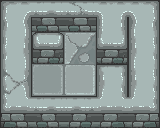
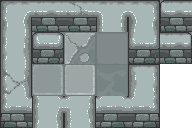
feat: update dongeon tile resource and added click and drag adding to dungeon designer tool

diff --git a/src/pages/LevelBuilder/LevelBuilder.jsx b/src/pages/LevelBuilder/LevelBuilder.jsx
@@ -59,8 +59,55 @@ export const LevelBuilder = () => {
     const json = JSON.stringify(levelTiles);
     setOutputJson(json);
   }, [levelTiles]);
-
+  
   const Tiles = useMemo(() => {
+    let longPressTimer;
+    let longPressStart = {x: '', y: ''};
+    let longPressEnd = {x: '', y: ''};
+    
+    const handleMouseDown = (x, y) => {
+      setCurrent({x: x, y: y});
+      longPressTimer = setTimeout(() => {
+        longPressStart = {x: x, y: y};
+      }, 500);
+    };
+
+    const handleMouseUp = (x, y) => {
+      if(longPressStart.x !== '' && longPressStart.y !== '') {
+        longPressEnd = {x: x, y: y};
+
+        let diffX = longPressEnd.x - longPressStart.x;
+        let diffY = longPressEnd.y - longPressStart.y;
+
+        if (diffX !== 0) {
+          const newTileSet = [...levelTiles];
+          for (let i = 0; i <= Math.abs(diffX); i++) {
+            const newX = longPressStart.x + (diffX > 0 ? i : -i);
+            const startY = longPressStart.y;
+            const updateTileIndex = newTileSet.findIndex((tile) => tile.x === newX && tile.y === startY);
+            if (updateTileIndex !== -1) {
+              newTileSet[updateTileIndex] = { x: newX, y: longPressStart.y, id: tileSelected };
+            }
+          }
+          setLevelTiles(newTileSet);
+        }
+
+        if (diffY !== 0) {
+          const newTileSet = [...levelTiles];
+          for (let i = 0; i <= Math.abs(diffY); i++) {
+            const newY = longPressStart.y + (diffY > 0 ? i : -i);
+            const startX = longPressStart.x;
+            const updateTileIndex = newTileSet.findIndex((tile) => tile.y === newY && tile.x === startX);
+            if (updateTileIndex !== -1) {
+              newTileSet[updateTileIndex] = { x: longPressStart.x, y: newY, id: tileSelected };
+            }
+          }
+          setLevelTiles(newTileSet);
+        }
+      }
+      clearTimeout(longPressTimer);
+    };
+
     return levelTiles.map((tile, i) => {
       const key = `${tile.x}-${tile.y}`;
       const tileDetail = levelDetails.dungeonTileKey.find(tileKey => tileKey.id === tile.id);
@@ -70,17 +117,19 @@ export const LevelBuilder = () => {
           style={{
             backgroundImage: tileDetail && `url(${dungeonTilesSheet})`,
             backgroundPosition: tileDetail && `-${tileDetail.x / pixelsPerTile * 100}% -${tileDetail.y / pixelsPerTile * 100}%`,
-            backgroundSize: '500% 400%',
+            backgroundSize: '600% 400%',
             height: `${pixelsPerTile}px`,
             width: `${pixelsPerTile}px`,
             transform: `scale(${level.zoomSize})`,
           }}
           onClick={() => {handleTileClick(tile.x, tile.y)}}
+          onMouseUp={() => handleMouseUp(tile.x, tile.y)}
+          onMouseDown={(e) => handleMouseDown(tile.x, tile.y)}
         >
         </div>
       )
     })
-  }, [levelTiles, handleTileClick, level]);
+  }, [levelTiles, handleTileClick, level.zoomSize, tileSelected]);
 
   const handleTileButtonClick = (id) => {
     if(id === tileSelected) {
@@ -89,10 +138,6 @@ export const LevelBuilder = () => {
     }
     setTileSelected(id);
   };
-
-  useEffect(() => {
-    console.log('levelTiles', levelTiles);
-  }, [levelTiles]);
 
   return (
     <div className="admin">
@@ -137,6 +182,7 @@ export const LevelBuilder = () => {
           </div>
           <button onClick={generateMap}>Generate Map</button>
           <button onClick={generateJson}>Save Level [Output Json]</button>
+          <button onClick={() => {console.log("load level - json")}}>Load Level [Input Json]</button>
         </section>
 
         <section className="admin__map--preview">
@@ -149,9 +195,10 @@ export const LevelBuilder = () => {
                 onClick={() => handleTileButtonClick('reset')}>
                   <div style={{border: '3px solid #fff', height: '26px', width: '26px'}}></div>
                   clear cell
-                </button>
+              </button>
               {levelDetails.dungeonTileKey.map((tile, i) => {
                 return (
+                  tile.detail &&
                   <button 
                     key={i} 
                     className={tile.id === tileSelected ? "current-image-button" : "image-button"}
@@ -173,7 +220,7 @@ export const LevelBuilder = () => {
           <div className="panel">
             <h3>Map: </h3>
             <div>Selected: {`[x:${current.x}, y:${current.y}]`}</div>
-            <div style={{
+            <div id="map" style={{
               margin: '30px', 
               height: `${level.zoomSize * pixelsPerTile * level.y}px`,
               width: `${level.zoomSize * pixelsPerTile * level.x}px`,

diff --git a/src/pages/Game/GameLevel.jsx b/src/pages/Game/GameLevel.jsx
@@ -38,7 +38,7 @@ const cameraDimensions = {width: 15, height: 9};
 export const GameLevel = () => {
   //development tools
   const showGridOverlay = false;
-  const showCollisionBox = true;
+  const showCollisionBox = false;
   const scale = 2;
   const playerSize = TileSize * scale + (TileSize * scale / 2);
   const cellSize = TileSize * scale;

diff --git a/src/pages/LevelBuilder/LevelBuilder.scss b/src/pages/LevelBuilder/LevelBuilder.scss
@@ -119,6 +119,8 @@
     display: grid;
     grid-template-columns: 350px 1fr;
     grid-gap: 10px;
+
+    height: calc(100vh - 300px);
   }
 }
 
